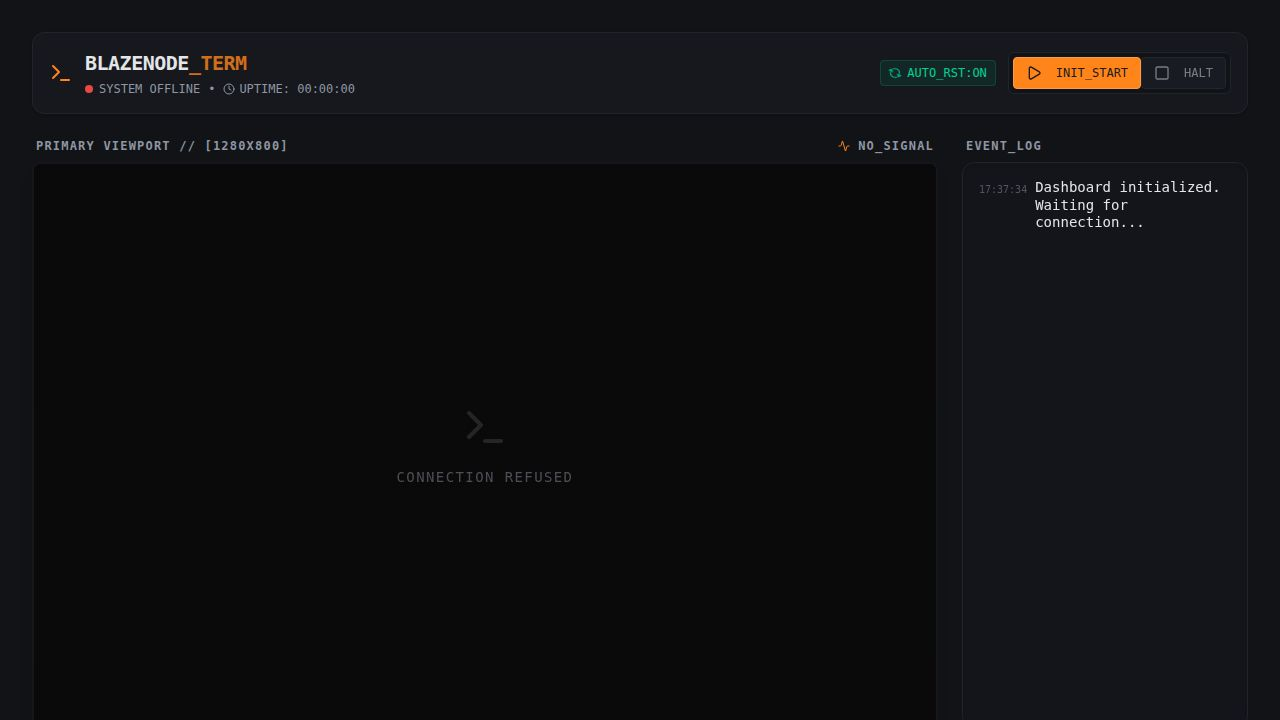
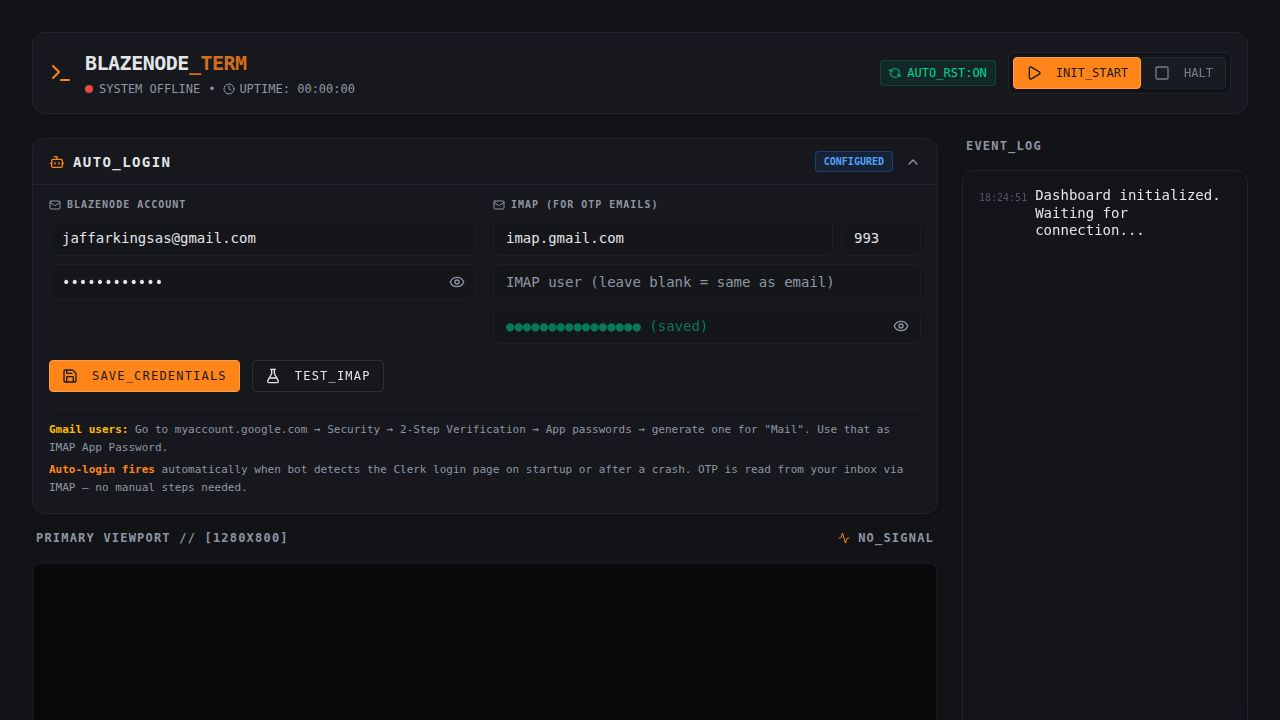
Add live earnings tracking chart to the dashboard interface
Add EarningsTrack component to Home.tsx, integrate live coin scraping from bot.ts, and update API session data.

Replit-Commit-Author: Agent
Replit-Commit-Session-Id: e6a084ea-660e-4477-b73f-3940bdfa3e66
Replit-Commit-Checkpoint-Type: full_checkpoint
Replit-Commit-Event-Id: a85348d0-9768-4b95-bf61-e9c19eb45a81
Replit-Commit-Screenshot-Url: https://storage.googleapis.com/screenshot-production-us-central1/cf13d5f2-5f0b-4a50-9a3e-ad5c4203ef27/e6a084ea-660e-4477-b73f-3940bdfa3e66/Y6jKkml
Replit-Helium-Checkpoint-Created: true

diff --git a/artifacts/bot-dashboard/src/components/EarningsTrack.tsx b/artifacts/bot-dashboard/src/components/EarningsTrack.tsx
@@ -1,0 +1,171 @@
+import { useRef } from "react";
+import {
+  LineChart,
+  Line,
+  XAxis,
+  YAxis,
+  CartesianGrid,
+  Tooltip,
+  ResponsiveContainer,
+} from "recharts";
+import { TrendingUp, RefreshCw } from "lucide-react";
+
+export interface EarningsPoint {
+  ts: number;
+  coins: number;
+}
+
+interface Props {
+  data: EarningsPoint[];
+  current: number | null;
+  onClear: () => void;
+}
+
+function istTime(ts: number): string {
+  return new Date(ts).toLocaleTimeString("en-US", {
+    timeZone: "Asia/Kolkata",
+    hour12: true,
+    hour: "numeric",
+    minute: "2-digit",
+  });
+}
+
+function istTimeShort(ts: number): string {
+  return new Date(ts).toLocaleTimeString("en-US", {
+    timeZone: "Asia/Kolkata",
+    hour12: true,
+    hour: "numeric",
+    minute: "2-digit",
+  });
+}
+
+interface TooltipProps {
+  active?: boolean;
+  payload?: { value: number; payload: EarningsPoint }[];
+}
+
+function CustomTooltip({ active, payload }: TooltipProps) {
+  if (!active || !payload?.length) return null;
+  const point = payload[0].payload;
+  return (
+    <div className="bg-[#111] border border-[#2a2a2a] rounded px-3 py-2 font-mono text-xs shadow-lg">
+      <div className="text-[#aaa] mb-1">{istTime(point.ts)}</div>
+      <div className="text-emerald-400">
+        Earned : <span className="font-bold">{point.coins.toFixed(4)}</span>
+      </div>
+    </div>
+  );
+}
+
+interface TickProps {
+  x?: number;
+  y?: number;
+  payload?: { value: number };
+  index?: number;
+  visibleTicksCount?: number;
+}
+
+function CustomXTick({ x, y, payload, index, visibleTicksCount }: TickProps) {
+  if (
+    payload == null ||
+    index == null ||
+    visibleTicksCount == null
+  )
+    return null;
+  const total = visibleTicksCount;
+  if (total > 12 && index % Math.ceil(total / 12) !== 0) return null;
+  return (
+    <g transform={`translate(${x},${y})`}>
+      <text
+        x={0}
+        y={0}
+        dy={12}
+        textAnchor="middle"
+        fill="#555"
+        fontSize={10}
+        fontFamily="monospace"
+      >
+        {istTimeShort(payload.value)}
+      </text>
+    </g>
+  );
+}
+
+export default function EarningsTrack({ data, current, onClear }: Props) {
+  const chartRef = useRef<HTMLDivElement>(null);
+
+  const displayCurrent =
+    current !== null ? current.toFixed(2) : data.length > 0 ? data[data.length - 1].coins.toFixed(2) : "0.00";
+
+  return (
+    <div className="bg-card border border-border rounded-xl shadow-sm p-4 flex flex-col gap-3">
+      <div className="flex items-center justify-between">
+        <div className="flex items-center gap-2 text-xs font-bold text-muted-foreground uppercase tracking-widest">
+          <TrendingUp className="w-3.5 h-3.5 text-emerald-400" />
+          <span>Earnings_Track</span>
+        </div>
+        <div className="flex items-center gap-3">
+          <span className="font-mono text-xs font-bold text-emerald-400 tracking-wider">
+            CURRENT: {displayCurrent}
+          </span>
+          <button
+            onClick={onClear}
+            title="Clear history"
+            className="text-muted-foreground hover:text-foreground transition-colors"
+          >
+            <RefreshCw className="w-3.5 h-3.5" />
+          </button>
+        </div>
+      </div>
+
+      {data.length < 2 ? (
+        <div className="h-[180px] flex items-center justify-center text-muted-foreground text-xs font-mono opacity-50">
+          {data.length === 0
+            ? "Waiting for earnings data..."
+            : "Collecting data points..."}
+        </div>
+      ) : (
+        <div ref={chartRef} className="h-[180px] w-full">
+          <ResponsiveContainer width="100%" height="100%">
+            <LineChart
+              data={data}
+              margin={{ top: 8, right: 8, left: -20, bottom: 16 }}
+            >
+              <CartesianGrid
+                strokeDasharray="3 3"
+                stroke="#1e1e1e"
+                vertical={true}
+              />
+              <XAxis
+                dataKey="ts"
+                type="number"
+                scale="time"
+                domain={["dataMin", "dataMax"]}
+                tick={(props) => <CustomXTick {...props} />}
+                tickLine={false}
+                axisLine={{ stroke: "#2a2a2a" }}
+              />
+              <YAxis
+                tick={{ fill: "#555", fontSize: 10, fontFamily: "monospace" }}
+                tickLine={false}
+                axisLine={false}
+                width={36}
+                tickFormatter={(v: number) => String(Math.round(v))}
+              />
+              <Tooltip content={<CustomTooltip />} />
+              <Line
+                type="monotone"
+                dataKey="coins"
+                stroke="#34d399"
+                strokeWidth={2}
+                dot={{ fill: "#34d399", r: 3, strokeWidth: 0 }}
+                activeDot={{ fill: "#fff", r: 5, strokeWidth: 0 }}
+                isAnimationActive={false}
+              />
+            </LineChart>
+          </ResponsiveContainer>
+        </div>
+      )}
+    </div>
+  );
+}

diff --git a/artifacts/api-server/src/lib/bot.ts b/artifacts/api-server/src/lib/bot.ts
@@ -27,6 +27,7 @@ interface BotState {
   lastActivity: string | null;
   sessionActive: boolean;
   earning: boolean;
+  coinsEarned: number | null;
   latestScreenshot: string | null;
   lastVerification: string | null;
   verificationCount: number;
@@ -41,6 +42,7 @@ const state: BotState = {
   lastActivity: null,
   sessionActive: false,
   earning: false,
+  coinsEarned: null,
   latestScreenshot: null,
   lastVerification: null,
   verificationCount: 0,
@@ -269,7 +271,37 @@ async function watchdog(): Promise<void> {
         document.querySelector("[data-earning='true']") !== null ||
         document.querySelector(".earning-active") !== null;
 
-      return { actions, isRunning };
+      // 5. Scrape coins earned — BlazeNode shows "29 EARNED" on the earn page
+      let coinsEarned: number | null = null;
+      try {
+        // Strategy A: look for element labelled "earned" and grab the sibling number
+        const allEls = Array.from(document.querySelectorAll("*"));
+        for (const el of allEls) {
+          const txt = (el.textContent ?? "").trim();
+          if (/^\d+(\.\d+)?$/.test(txt)) {
+            const next = el.nextElementSibling;
+            const prev = el.previousElementSibling;
+            const parent = el.parentElement;
+            const nearbyText = [
+              next?.textContent ?? "",
+              prev?.textContent ?? "",
+              parent?.textContent ?? "",
+            ].join(" ").toLowerCase();
+            if (nearbyText.includes("earned")) {
+              coinsEarned = parseFloat(txt);
+              break;
+            }
+          }
+        }
+        // Strategy B: regex scan the full page text "NUMBER earned"
+        if (coinsEarned === null) {
+          const bodyText = document.body.innerText;
+          const m = bodyText.match(/(\d+(?:\.\d+)?)\s*(?:coins?\s*)?earned/i);
+          if (m) coinsEarned = parseFloat(m[1]);
+        }
+      } catch {}
+
+      return { actions, isRunning, coinsEarned };
     });
 
     if (
@@ -283,6 +315,10 @@ async function watchdog(): Promise<void> {
         { actions: result.actions, total: state.verificationCount },
         "Verification popup auto-dismissed",
       );
+    }
+
+    if (result.coinsEarned !== null) {
+      state.coinsEarned = result.coinsEarned;
     }
 
     if (result.actions.includes("start_earning_clicked")) {
@@ -575,6 +611,7 @@ export function getBotStatus() {
     lastActivity: state.lastActivity,
     sessionActive: state.sessionActive,
     earning: state.earning,
+    coinsEarned: state.coinsEarned,
     lastVerification: state.lastVerification,
     verificationCount: state.verificationCount,
     autoRestart: state.autoRestart,

diff --git a/artifacts/bot-dashboard/src/pages/Home.tsx b/artifacts/bot-dashboard/src/pages/Home.tsx
@@ -15,6 +15,7 @@ import {
   Loader2, ShieldCheck, Coins, Keyboard, Send, CornerDownLeft, RefreshCw,
 } from "lucide-react";
 import AutoLoginPanel from "@/components/AutoLoginPanel";
+import EarningsTrack, { type EarningsPoint } from "@/components/EarningsTrack";
 import { formatDistanceToNow } from "date-fns";
 import { Button } from "@/components/ui/button";
 import { Badge } from "@/components/ui/badge";
@@ -53,6 +54,8 @@ export default function Home() {
   const [isClicking, setIsClicking] = useState(false);
   const [typeInput, setTypeInput] = useState("");
   const [displayUptime, setDisplayUptime] = useState<number | null>(null);
+  const [earningsHistory, setEarningsHistory] = useState<EarningsPoint[]>([]);
+  const lastCoinRef = useRef<number | null>(null);
   // Two-layer crossfade for viewport screenshots
   const [baseSrc, setBaseSrc] = useState<string | null>(null);
   const [fadeSrc, setFadeSrc] = useState<string | null>(null);
@@ -204,6 +207,17 @@ export default function Home() {
     prevNeedsLogin.current = status.needsLogin;
     prevEarning.current = status.earning;
     prevVerificationCount.current = status.verificationCount;
+
+    // Track earnings history for chart
+    const coins = (status as { coinsEarned?: number | null }).coinsEarned ?? null;
+    if (coins !== null && coins !== lastCoinRef.current) {
+      lastCoinRef.current = coins;
+      setEarningsHistory((prev) => {
+        const point: EarningsPoint = { ts: Date.now(), coins };
+        // Keep last 500 points
+        return [...prev, point].slice(-500);
+      });
+    }
   }, [status, toast]);
 
   // ─── Auto-restart toggle ──────────────────────────────────────────────────
@@ -489,8 +503,8 @@ export default function Home() {
             </AnimatePresence>
           </div>
 
-          {/* ACTIVITY LOG */}
-          <div className="lg:col-span-1 flex flex-col gap-2 h-full min-h-[400px]">
+          {/* RIGHT COLUMN: EVENT LOG + EARNINGS TRACK */}
+          <div className="lg:col-span-1 flex flex-col gap-4">
             <div className="flex items-center justify-between text-xs font-bold text-muted-foreground uppercase tracking-widest px-1">
               <span>Event_Log</span>
               {status?.lastActivity && (
@@ -529,6 +543,13 @@ export default function Home() {
                 </ScrollArea>
               </CardContent>
             </Card>
+
+            {/* EARNINGS TRACK CHART */}
+            <EarningsTrack
+              data={earningsHistory}
+              current={(status as { coinsEarned?: number | null })?.coinsEarned ?? null}
+              onClear={() => { setEarningsHistory([]); lastCoinRef.current = null; }}
+            />
           </div>
 
         </div>